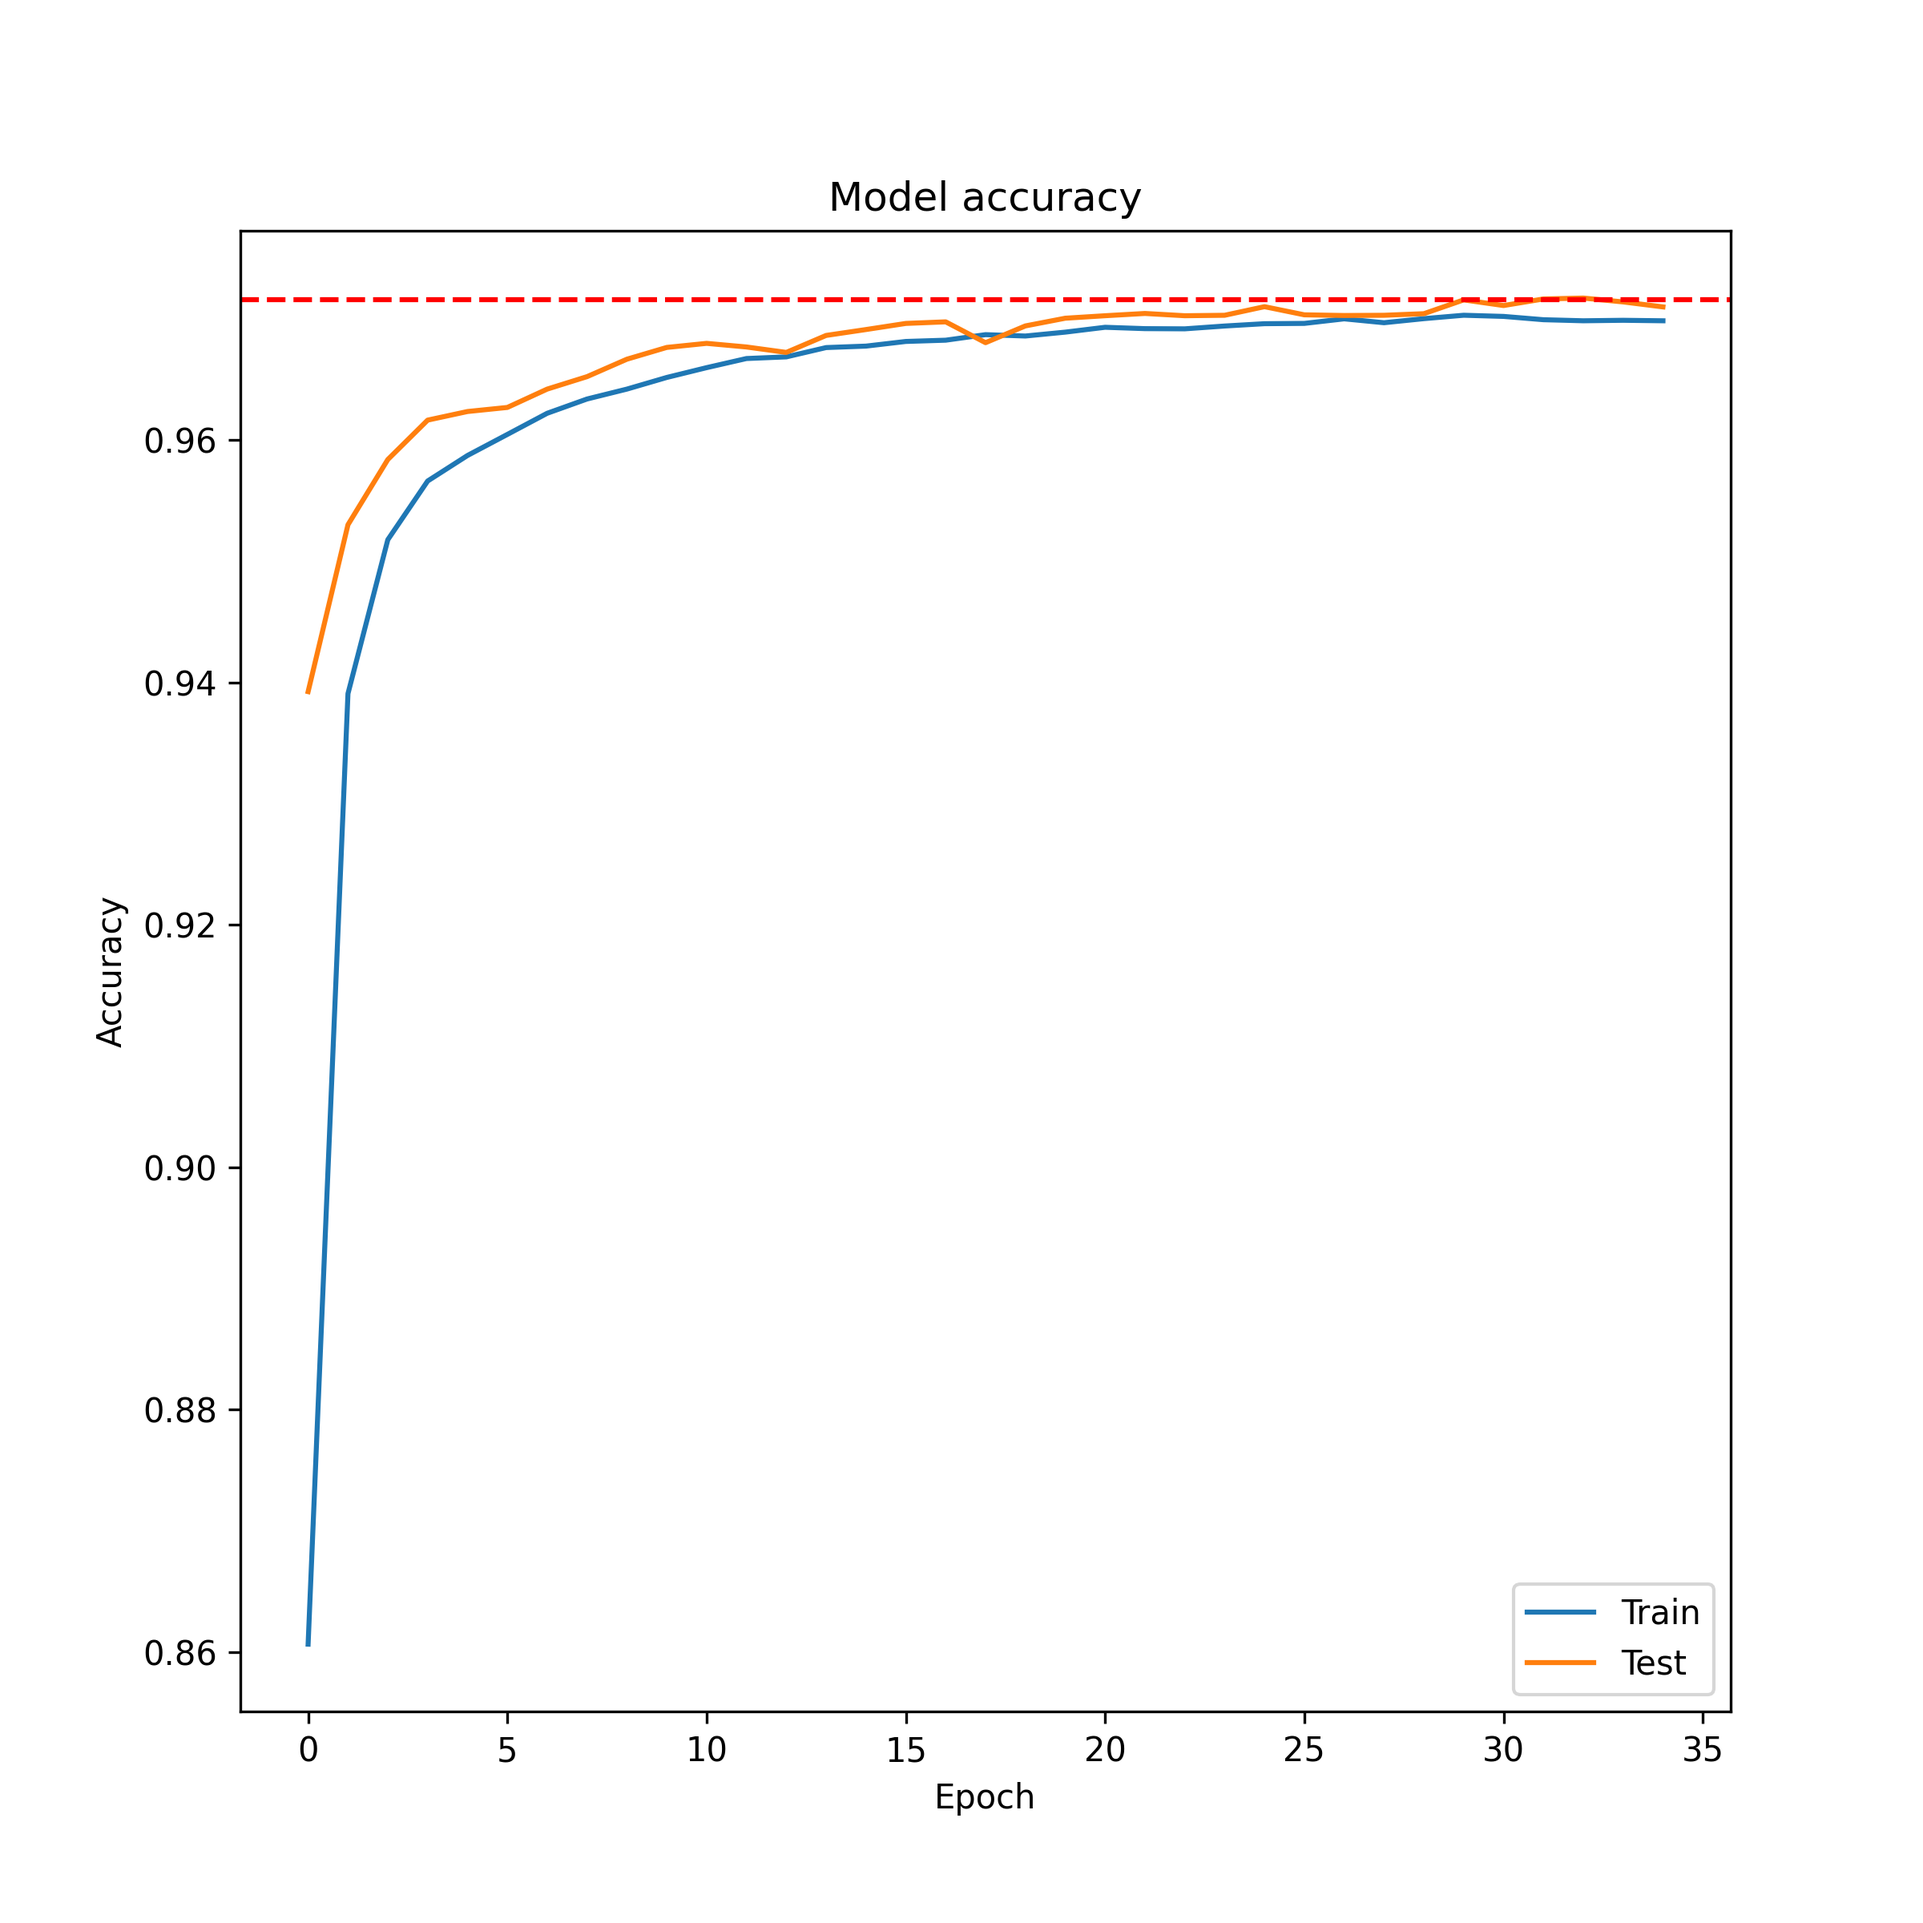
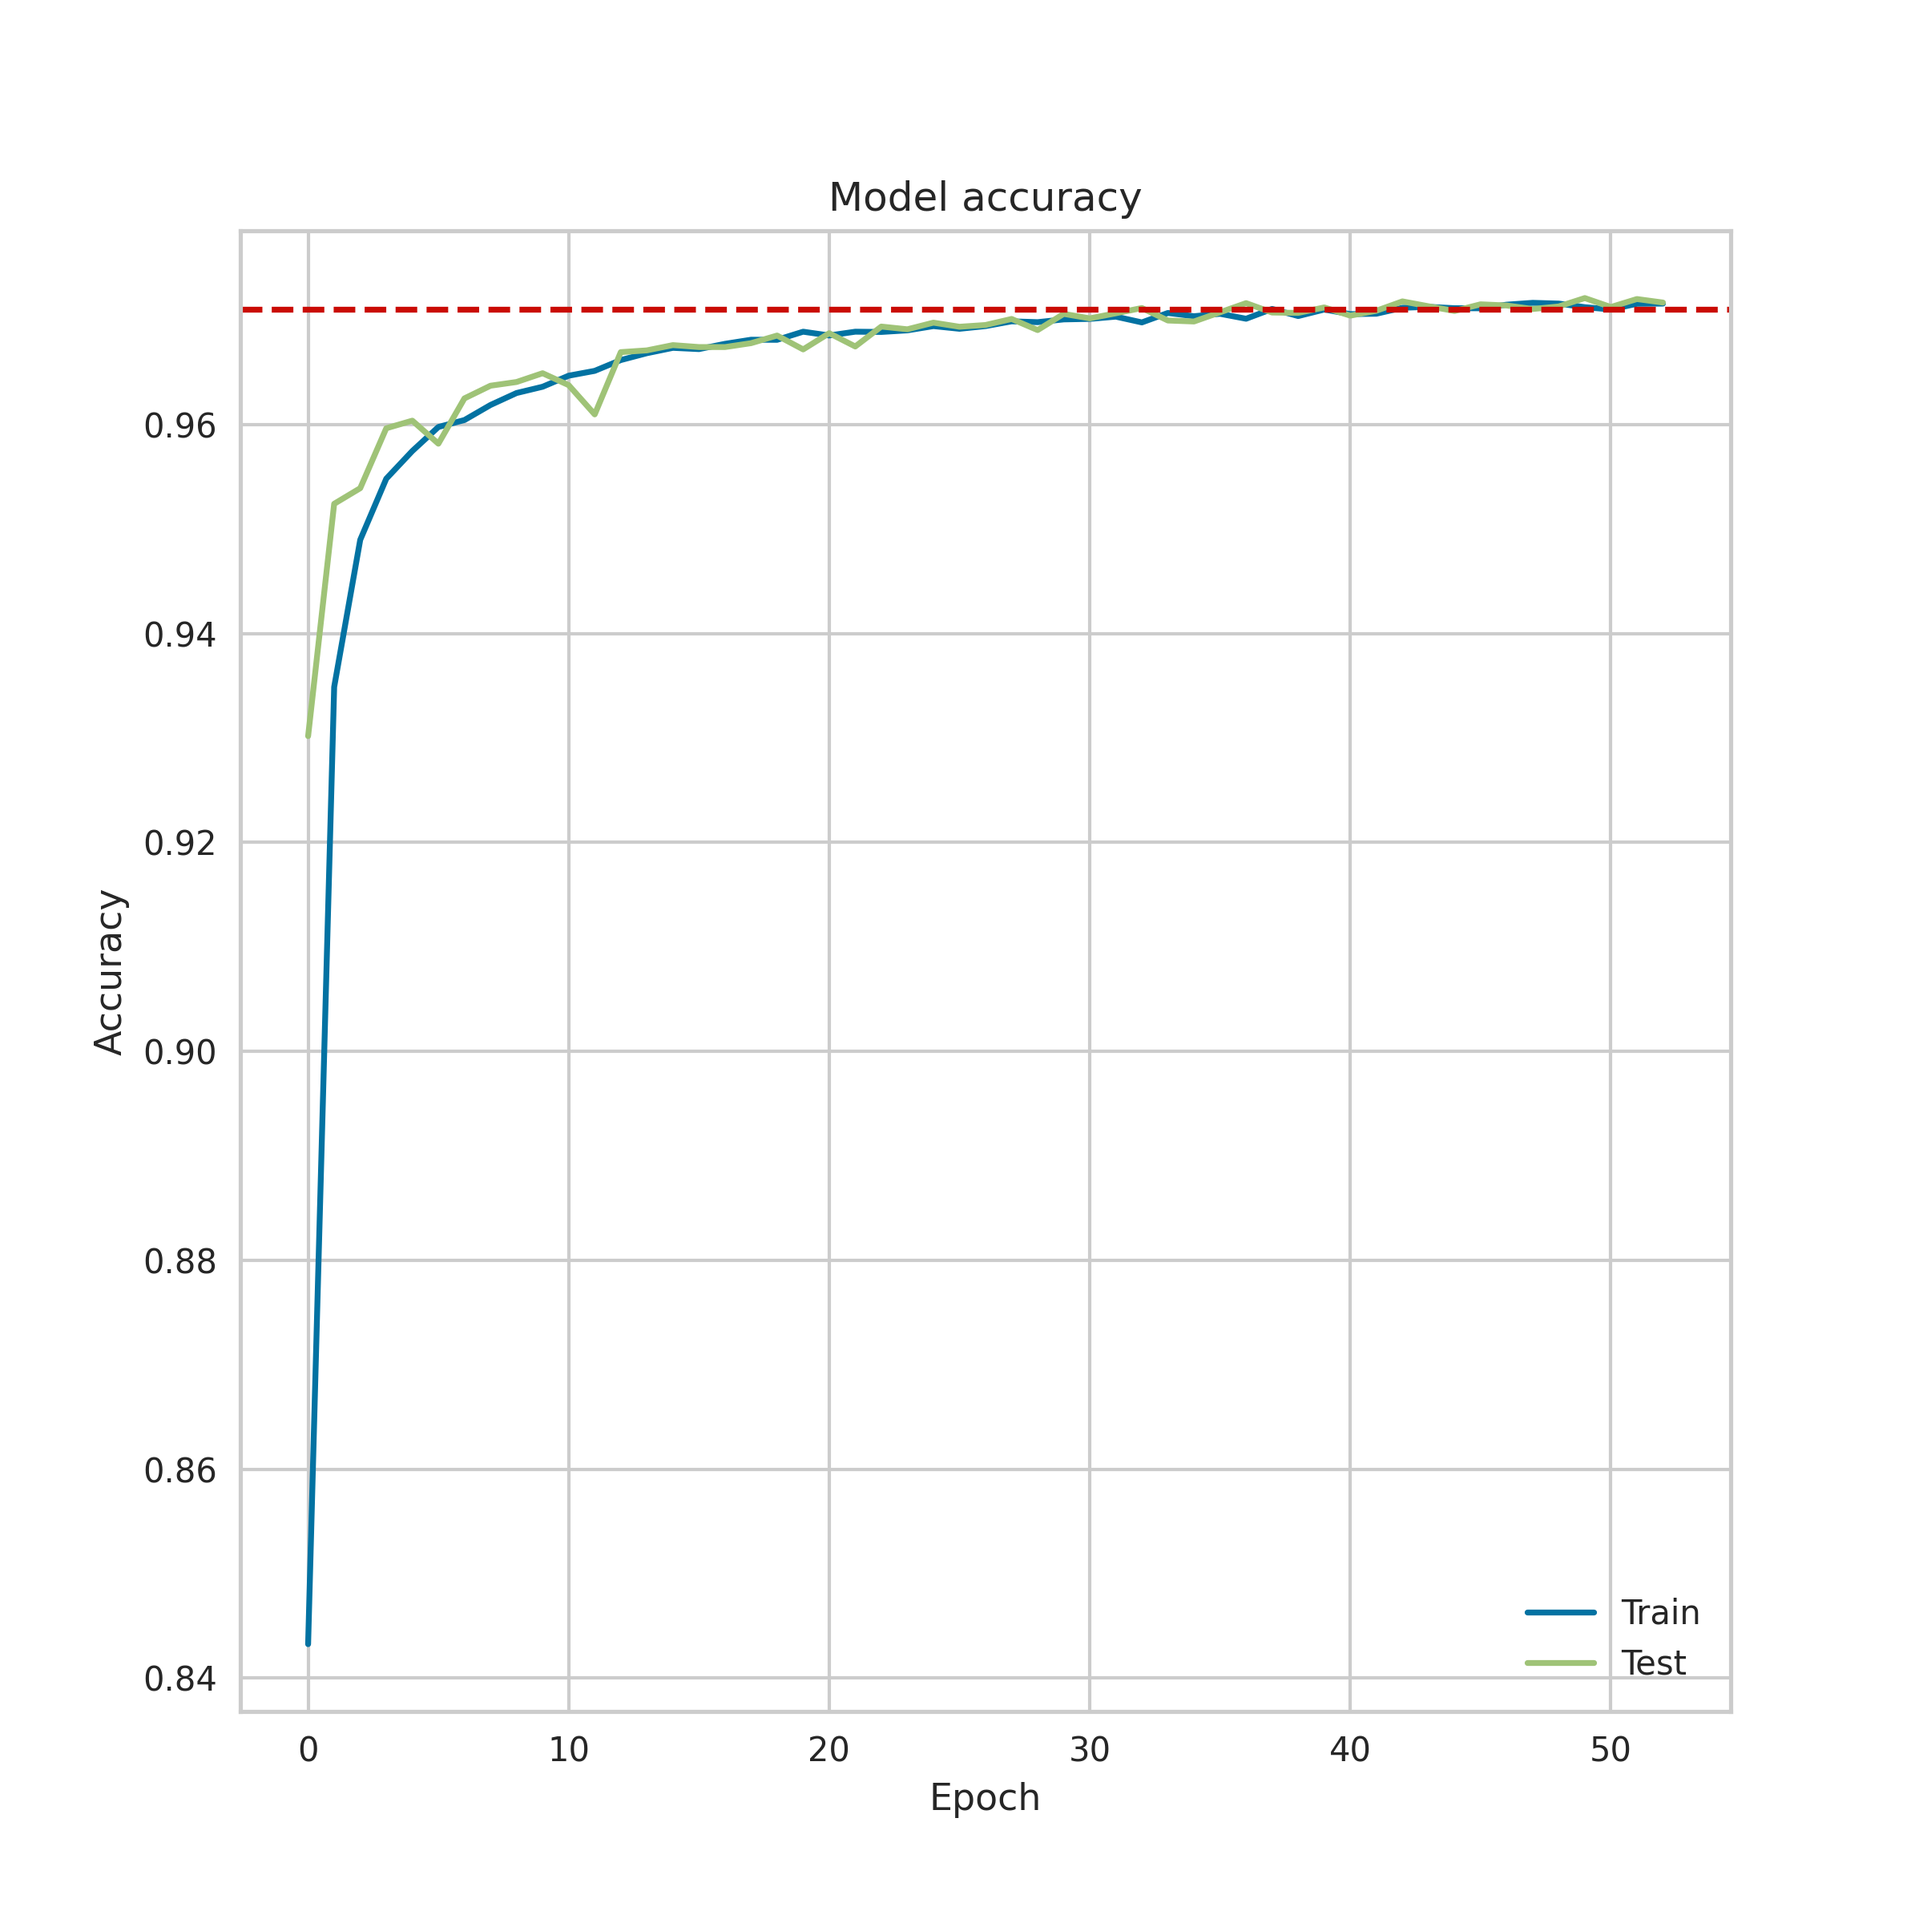
error graphs

diff --git a/src/main.py b/src/main.py
@@ -4,11 +4,10 @@ os.environ['TF_CPP_MIN_LOG_LEVEL'] = '1'  # Suppress TensorFlow logging
 os.environ['TF_CPP_MIN_LOG_LEVEL'] = '2'  # Suppress TensorFlow logging
 os.environ['TF_CPP_MIN_LOG_LEVEL'] = '3'  # Suppress TensorFlow logging
 
-from data_handler import get_data_frame
+from data_handler import get_data_frame, remove_outliers
 from models import dnn_model, svm_model
+from plotter import model_accuracy_plot, model_error_plot
 
-import seaborn as sns
-from matplotlib import pyplot as plt
 import pandas as pd
 import numpy as np
 
@@ -56,7 +55,7 @@ def main():
     y = df['class']
 
     # Balence between objects 
-    sm = SMOTE(random_state=2202301)
+    sm = SMOTE(random_state=220301)
     X, y = sm.fit_resample(X, y)
 
     # create split
@@ -69,56 +68,22 @@ def main():
 
     # Run DNN
     model, history = dnn_model(X_train_scaled, X_test_scaled, y_train, y_test, input_dim)
-    
-    # Run SVM
-    score = svm_model(X_train_scaled, X_test_scaled, y_train, y_test)
-    svm_score = np.mean(score)
 
     # Evaluate the model
     dnn_scores = model.evaluate(X_test_scaled, y_test)
     final_accuracy = dnn_scores[1]
+
+    # Plot DNN accuracy
+    model_accuracy_plot(history, final_accuracy)
+
+    # Run SVM
+    score, svm_clf = svm_model(X_train_scaled, X_test_scaled, y_train, y_test)
+    svm_score = np.mean(score)
+
+    # Plot Class prediction error
+    model_error_plot(svm_clf, X_train_scaled, X_test_scaled, y_train, y_test)
     
     print(f'DNN Score: {final_accuracy}\nSVM Score: {svm_score}')
-
-    # Create a figure and an axes object
-    fig, ax = plt.subplots(figsize=(8, 8))
-
-    # Plot training & validation accuracy values
-    ax.plot(history.history['accuracy'])
-    ax.plot(history.history['val_accuracy'])
-    ax.set_title('Model accuracy')
-    ax.set_ylabel('Accuracy')
-    ax.set_xlabel('Epoch')
-    ax.legend(['Train', 'Test'], loc='lower right')
-
-    # Add a horizontal line for the final accuracy
-    ax.axhline(y=final_accuracy, color='r', linestyle='--')
-
-    # Add an annotation
-    ax.annotate(f'Final Accuracy: {final_accuracy:.2f}%', 
-                 xy=(len(history.history['accuracy'])-1, final_accuracy), 
-                 xytext=(len(history.history['accuracy'])/2, final_accuracy+5),
-                 arrowprops=dict(facecolor='black', shrink=0.05),
-                 horizontalalignment='right', verticalalignment='top')
-
-    # Save the plot
-    plt.savefig('../model_accuracy_plot.png', dpi=300)
-    
-def remove_outliers(df):
-
-    for i in df.select_dtypes(include = 'number').columns:
-        qt1 = df[i].quantile(0.25)
-        qt3 = df[i].quantile(0.75)
-        iqr = qt3 - qt1
-        lower = qt1 - (1.5 * iqr)
-        upper = qt3 + (1.5 * iqr)
-        min_index = df[df[i] < lower].index
-        max_index = df[df[i] > upper].index
-        df.drop(min_index, inplace=True)
-        df.drop(max_index, inplace=True)
-
-        return df
-
 
 if __name__ == "__main__":
     main()

diff --git a/src/plotter.py b/src/plotter.py
@@ -1,0 +1,40 @@
+from matplotlib import pyplot as plt
+from yellowbrick.classifier import ClassPredictionError
+
+def model_accuracy_plot(history, final_accuracy):
+
+    # Create a figure and an axes object
+    fig, ax = plt.subplots(figsize=(8, 8))
+
+    # Plot training & validation accuracy values
+    ax.plot(history.history['accuracy'])
+    ax.plot(history.history['val_accuracy'])
+    ax.set_title('Model accuracy')
+    ax.set_ylabel('Accuracy')
+    ax.set_xlabel('Epoch')
+    ax.legend(['Train', 'Test'], loc='lower right')
+
+    # Add a horizontal line for the final accuracy
+    ax.axhline(y=final_accuracy, color='r', linestyle='--')
+
+    # Add an annotation
+    ax.annotate(f'Final Accuracy: {final_accuracy:.2f}%', 
+                 xy=(len(history.history['accuracy'])-1, final_accuracy), 
+                 xytext=(len(history.history['accuracy'])/2, final_accuracy+5),
+                 arrowprops=dict(facecolor='black', shrink=0.05),
+                 horizontalalignment='right', verticalalignment='top')
+
+    # Save the plot
+    plt.savefig('../model_accuracy_plot.png', dpi=300)
+    plt.close()
+
+def model_error_plot(model, X_train, X_test, y_train, y_test):
+
+    classes=['GALAXY','STAR','QSO']
+
+    visualiser = ClassPredictionError(model, classes=classes)
+    visualiser.fit(X_train, y_train)
+    visualiser.score(X_test, y_test)
+    visualiser.show()
+
+    visualiser.poof(outpath='../model_error_plot.png', dpi=300)

diff --git a/src/models.py b/src/models.py
@@ -37,5 +37,5 @@ def svm_model(X_train, X_test, y_train, y_test):
     history = svm_clf.fit(X_train, y_train)
     score = svm_clf.score(X_test, y_test)
 
-    return score
+    return score, svm_clf
 
